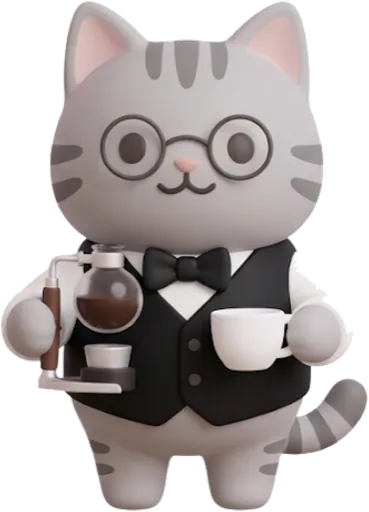
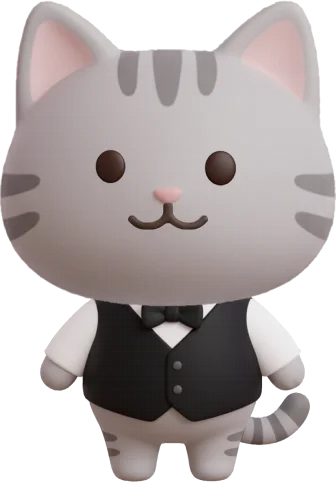
feat(frontend): use figma v4 character body and calendar faces
전신 에셋을 v3 바리스타(안경+커피 트레이)에서 Figma Section 1 v4
전신(조끼+보타이, 안경 없음)으로 교체 — S07 홈 밤 프레임에서 4x 추출.
달력 셀은 이모지 원 대신 무드별 고양이 얼굴(MoodFace)로 — v4 S14 정합.
얼굴 에셋 5종은 이미 v4 정체성과 일치해 유지.

diff --git a/frontend/src/screens/records.tsx b/frontend/src/screens/records.tsx
@@ -1,5 +1,5 @@
 import { useEffect, useRef, useState } from 'react';
-import { BackButton, TabBar } from '../components/primitives';
+import { BackButton, MoodFace, TabBar } from '../components/primitives';
 import { MoodHeatmap } from '../components/mood-heatmap';
 import { MoodPalette } from '../components/mood-palette';
 import { useNav } from '../lib/router';
@@ -269,20 +269,20 @@ export const S14_Calendar = () => {
                 }}
               >
                 {mood ? (
+                  /* v4 S14: 셀 = 이모지 원이 아니라 무드별 고양이 얼굴. 오늘만 액센트 링. */
                   <div
                     style={{
                       width: 30,
                       height: 30,
-                      border: today ? '2px solid var(--accent)' : '1.5px solid var(--ink)',
-                      borderRadius: '50%',
                       display: 'flex',
                       alignItems: 'center',
                       justifyContent: 'center',
-                      background: today ? 'var(--paper-2)' : '#fff',
-                      fontSize: 14,
+                      border: today ? '2px solid var(--accent)' : 'none',
+                      borderRadius: '50%',
+                      background: today ? 'var(--paper-2)' : 'transparent',
                     }}
                   >
-                    {mood}
+                    <MoodFace mood={mood} size={28} />
                   </div>
                 ) : (
                   <div
